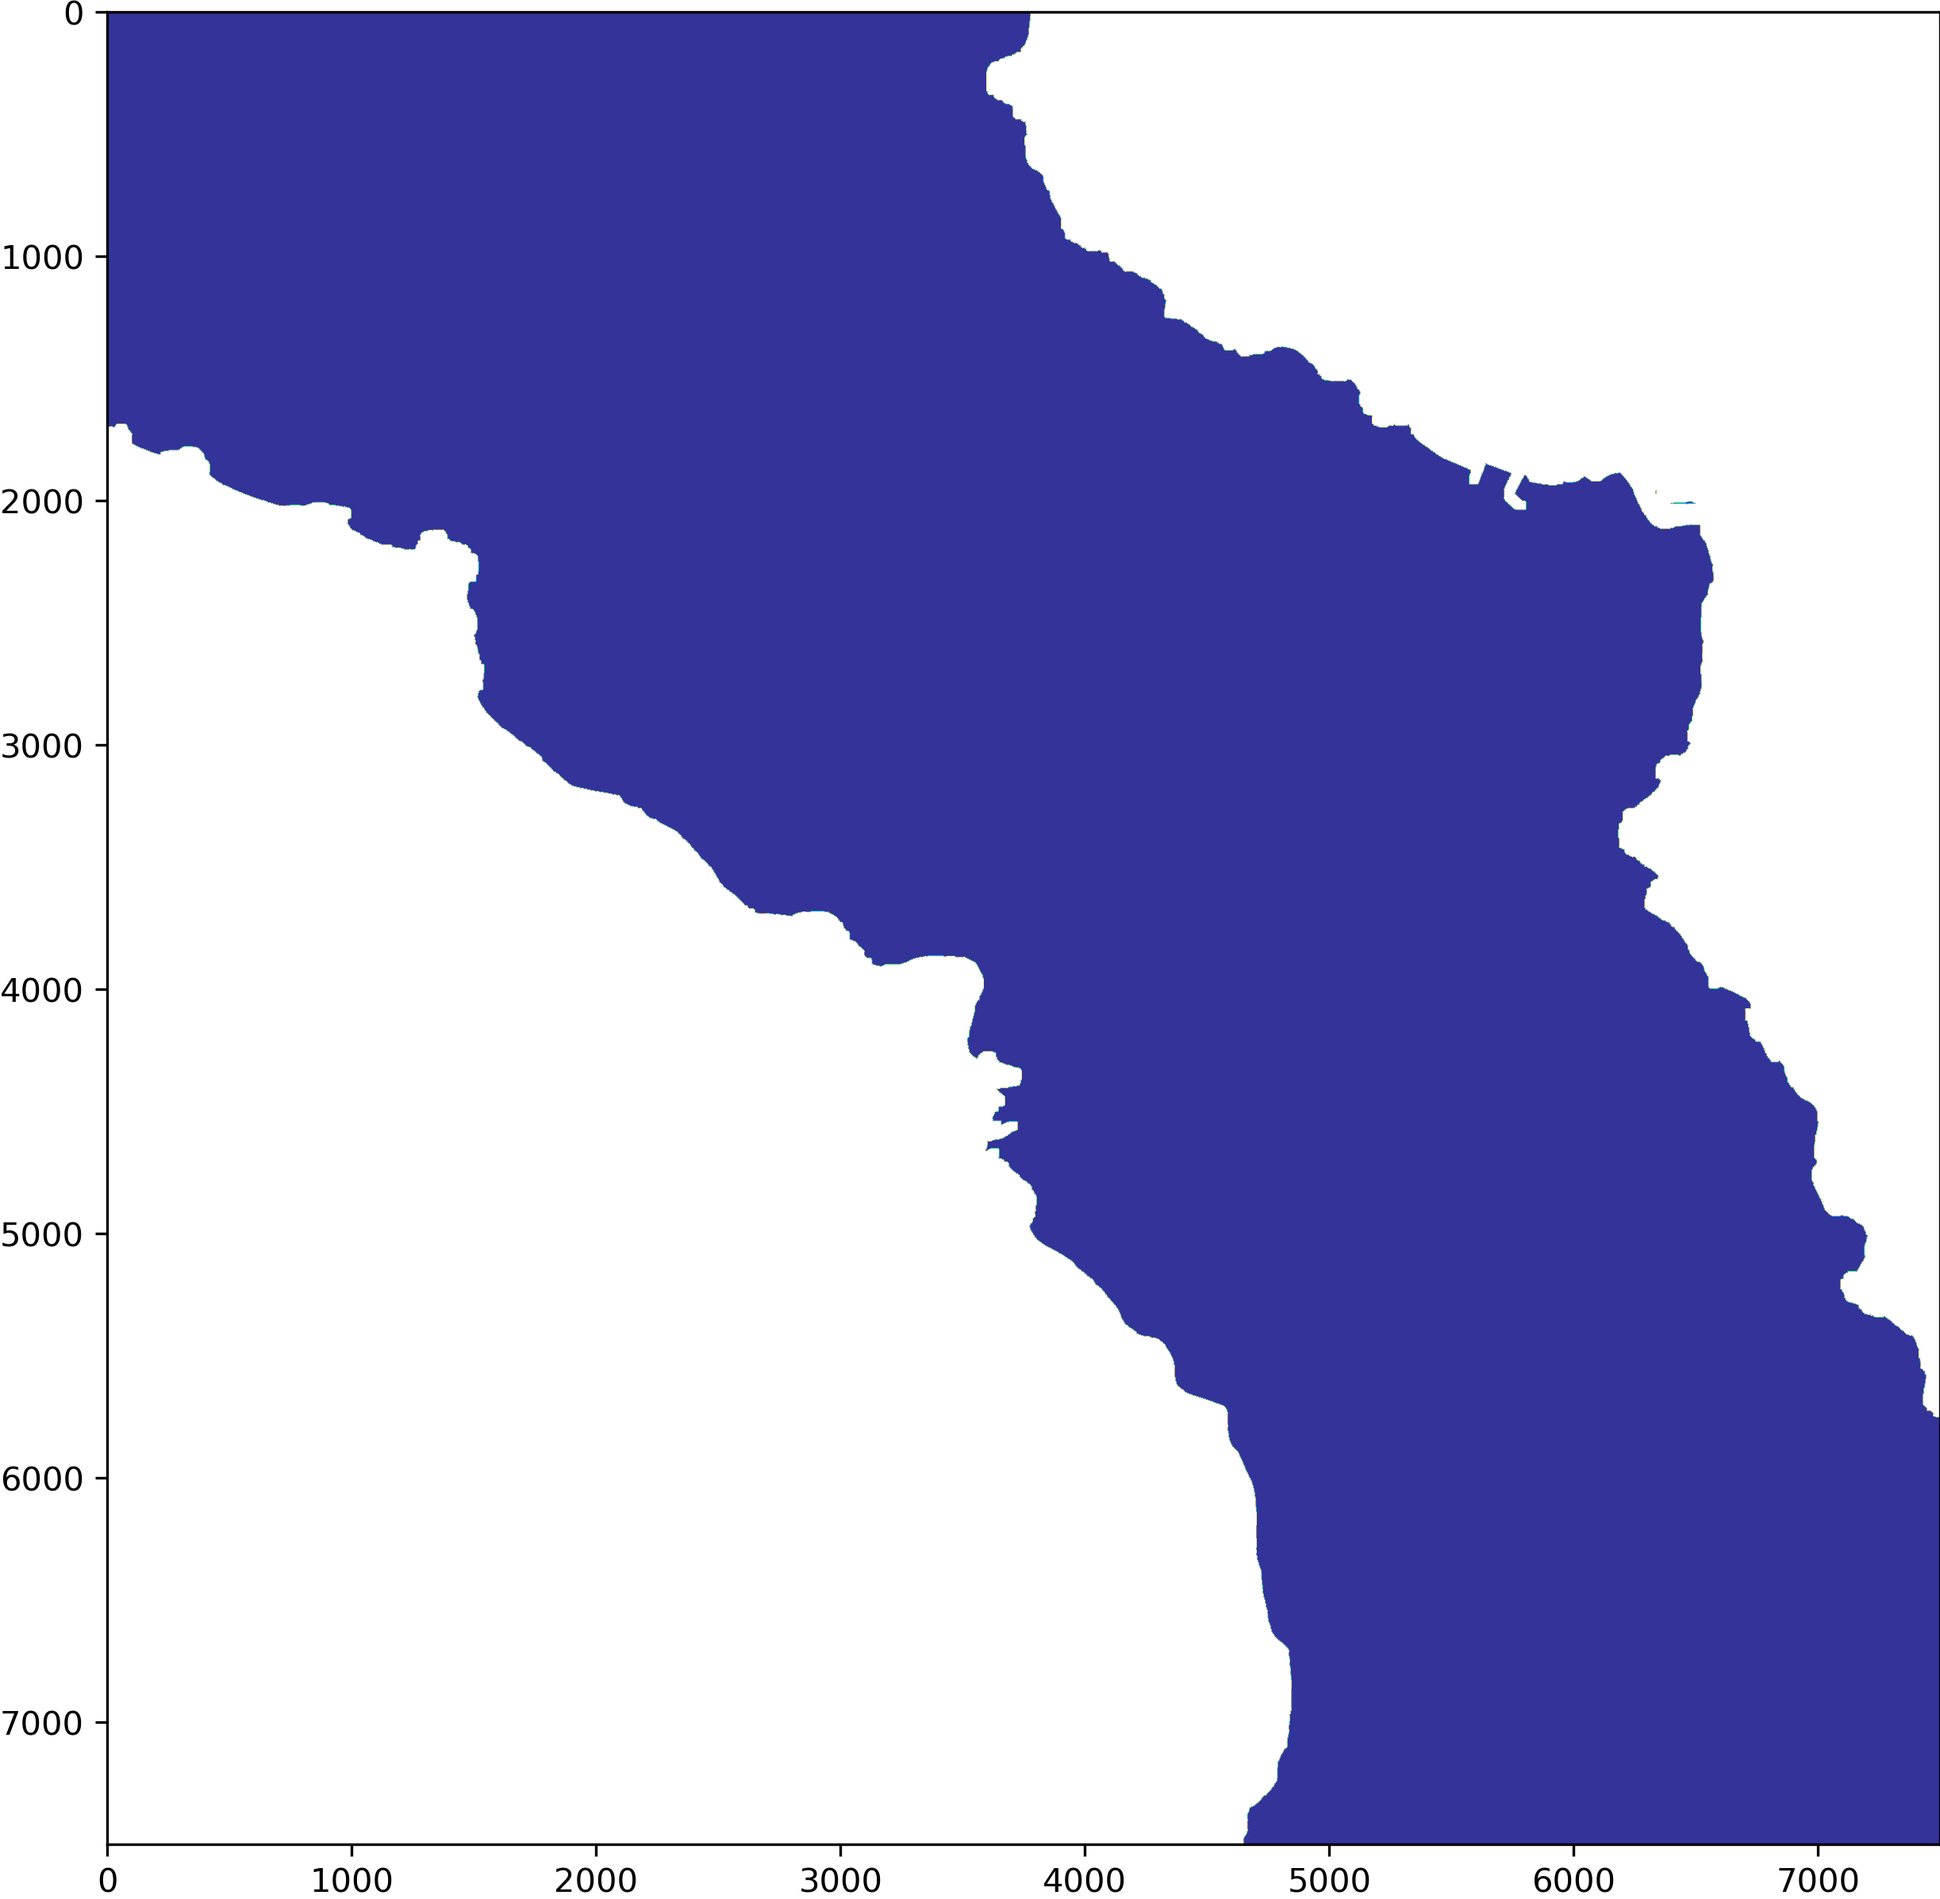
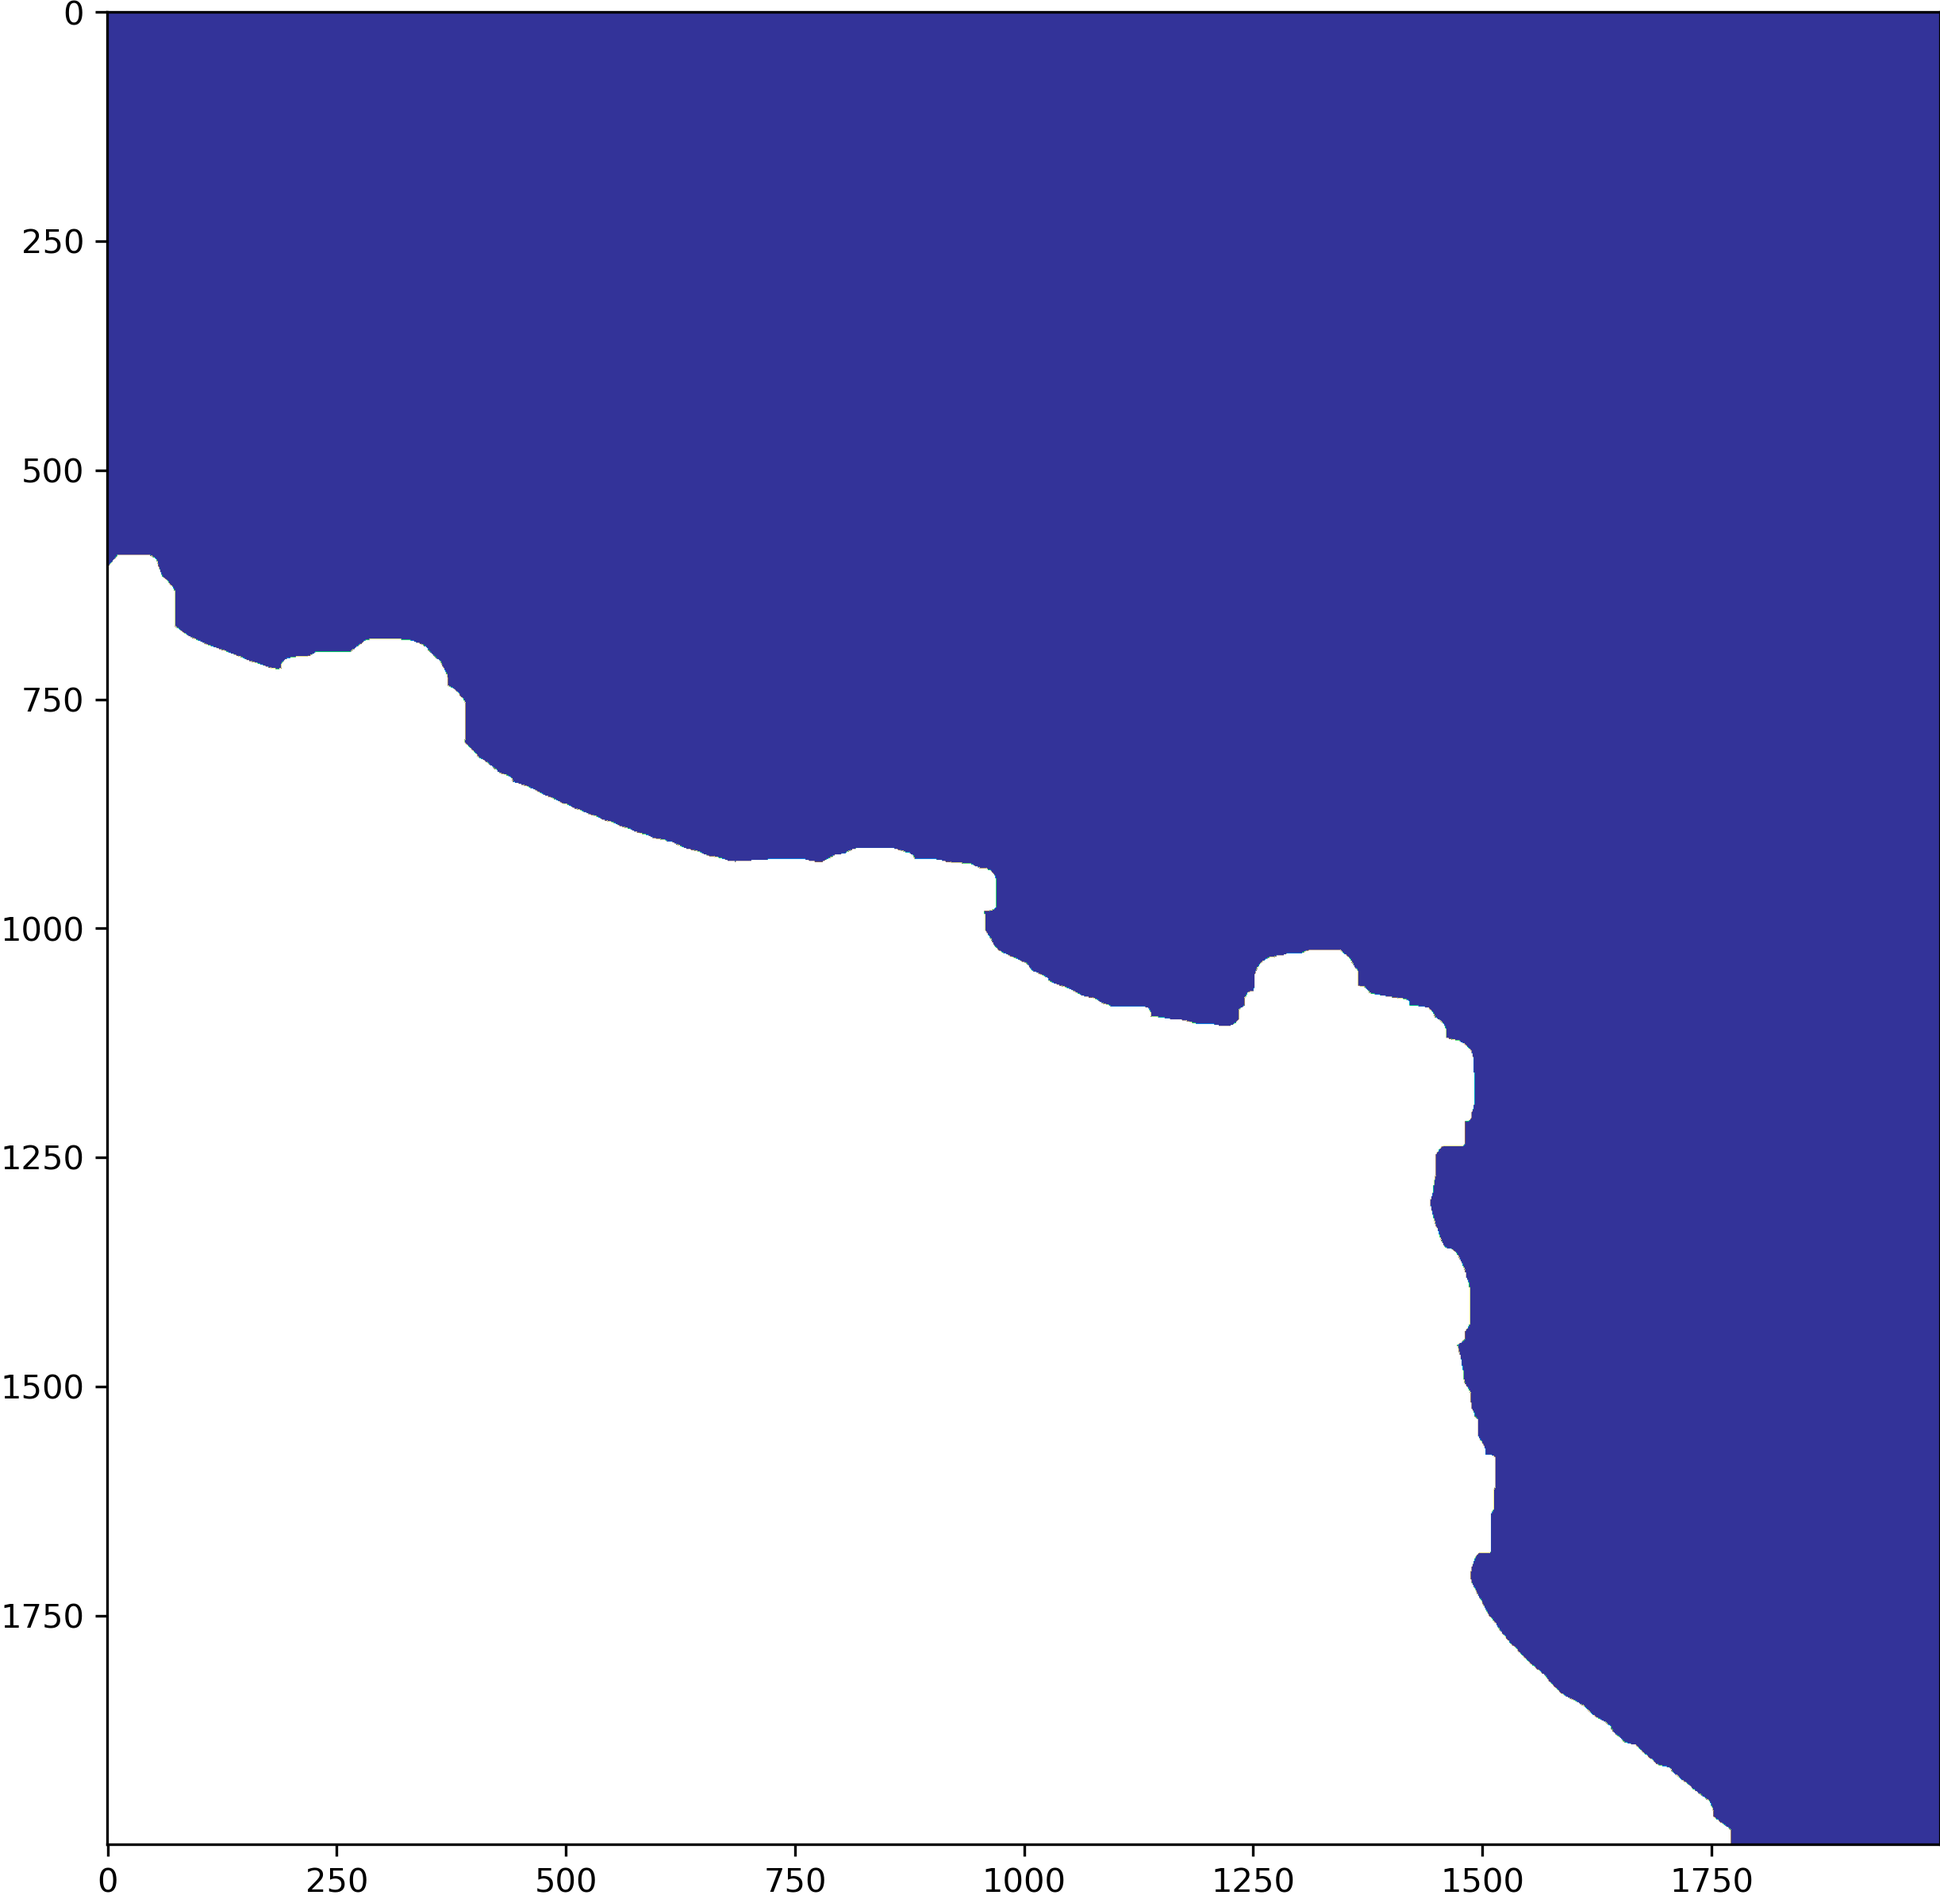
minor fixes to rrtstar to DRASTICALLY improve performance

diff --git a/new_plotting.py b/new_plotting.py
@@ -7,9 +7,10 @@ import numpy as np
 import os
 
 identifier = input('Enter identifier: ')
-identifier = r'07_05_2024_10_41_37'
-#identifier = '07_05_2024_12_31_08'
-#identifier = '07_05_2024_12_32_41'
+#identifier = r'07_05_2024_10_41_37' # LONG DISTANCE TEST
+#identifier = '07_05_2024_12_32_41' # Around obstacle1
+identifier = '07_05_2024_13_06_18' # around obstacle2
+#identifier = '07_05_2024_12_34_46'
 mapdata_path = f'{os.getcwd()}/map_data/'
 setting_path = f'{os.getcwd()}/map_settings.yaml'
 logging_path = f'{os.getcwd()}/mission_logs/'
@@ -19,6 +20,7 @@ logging_path = f'{os.getcwd()}/mission_logs/'
 
 size, center, algo,  target, note =  pl.read_config(identifier, logging_path)
 center_enc = [center[0] + size[0]/2, center[1] + size[1]/2]
+algo = ''
 
 position = pl.read_position(identifier, logging_path)
 
@@ -46,6 +48,8 @@ waypoints = pl.read_waypoints(identifier, logging_path)
 grid_waypoints_x = []
 grid_waypoints_y = []
 
+
+
 print(len(waypoints['seq']))
 for i in range(len(waypoints['seq'])):
     utm_coordinate = [waypoints['x'][i], waypoints['y'][i]]
@@ -56,7 +60,6 @@ for i in range(len(waypoints['seq'])):
 data = list(zip(grid_waypoints_x, grid_waypoints_y))
 data.sort()  # Sort by the first element of each tuple (x-coordinate)
 grid_waypoints_x, grid_waypoints_y = zip(*data)
-
 
 # Extracting ENC data to get accurate background
 uf.configure_enc(setting_path, center_enc, size)
@@ -78,7 +81,7 @@ plt.plot(grid_waypoints_x, grid_waypoints_y, markersize=12, linewidth=2, c='oran
 plt.plot(grid_position_x, grid_position_y, markersize=12, linewidth=3, c='purple',  alpha=0.75, label='Position')
 
 # Highlighting all waypoints/position readings
-#plt.scatter(grid_position_x, grid_position_y, s=5, c='pruple')
+#plt.scatter(grid_position_x, grid_position_y, s=5, c='purple')
 plt.scatter(grid_waypoints_x, grid_waypoints_y, s=40, c='orange',  edgecolors='black', linewidths=1, label='Waypoints', zorder=2)
 
 # MARKING START AND END

diff --git a/src/rrtstar.py b/src/rrtstar.py
@@ -123,9 +123,9 @@ def retrace_path(end_node, start, end, obstacle_image): # Extract the coordinate
             current = current.parent
 
         # Visualize the optimal path    
-        image_with_nodes = draw_nodes(best_path, start, end, iteration, obstacle_image )
-        cv2.waitKey(1000)
-        cv2.destroyAllWindows()   
+        #image_with_nodes = draw_nodes(best_path, start, end, iteration, obstacle_image )
+        #cv2.waitKey(1000)
+        #cv2.destroyAllWindows()   
         return path[::-1]                                                 
 
 def rrt_star_alg(start, end, max_iterations, delta, radius, bias, obstacle_image, height, width):
@@ -183,8 +183,8 @@ def rrt_star_alg(start, end, max_iterations, delta, radius, bias, obstacle_image
             break                                                                                    # Exit the loop after finding the first node that passes the collision check
 
         # Visualization
-        draw_nodes(nodes, start, end, iteration, obstacle_image)
-    cv2.destroyAllWindows()
+        #draw_nodes(nodes, start, end, iteration, obstacle_image)
+    #cv2.destroyAllWindows()
       
     return nodes
 

diff --git a/standalone_pathplanner.py b/standalone_pathplanner.py
@@ -16,13 +16,13 @@ logging_path = f'{os.getcwd()}/mission_logs/'
 
 
 # Defining map size and center
-size   = [7500, 7500]
-center = [251459.72431460491, 7030336.552629814] # Centered on current position
+size   = [2000, 2000]
+center = [252555.72326179774, 7035808.149017857] # Centered on current position
 center_enc =  [center[0] + size[0]/2, center[1] + size[1]/2] # Centered on current position
 uf.configure_enc(setting_path, center=center_enc, size=size) # Updating .yaml file
 
-utm33_current_position = (255154.05073167084, 7034111.246294714)
-utm33_home_position = (253500.0412661848, 7036556.63955146)
+utm33_current_position = (253558.63731427345, 7036807.734086929)
+utm33_home_position = (253440.49996589732, 7036954.186699727)
 
 
 

diff --git a/src/coordinate_conversion.py b/src/coordinate_conversion.py
@@ -57,6 +57,6 @@ def grid_to_wgs84(coordinate1, coordinate2, size, center, inverse=False):
 
 
 if __name__ == '__main__':
-    point = (63.3514945, 10.1036826)
+    point = (63.3745096,10.0677783)
     print(utm33_to_wgs84(point[0], point[1], inverse=True))
     
